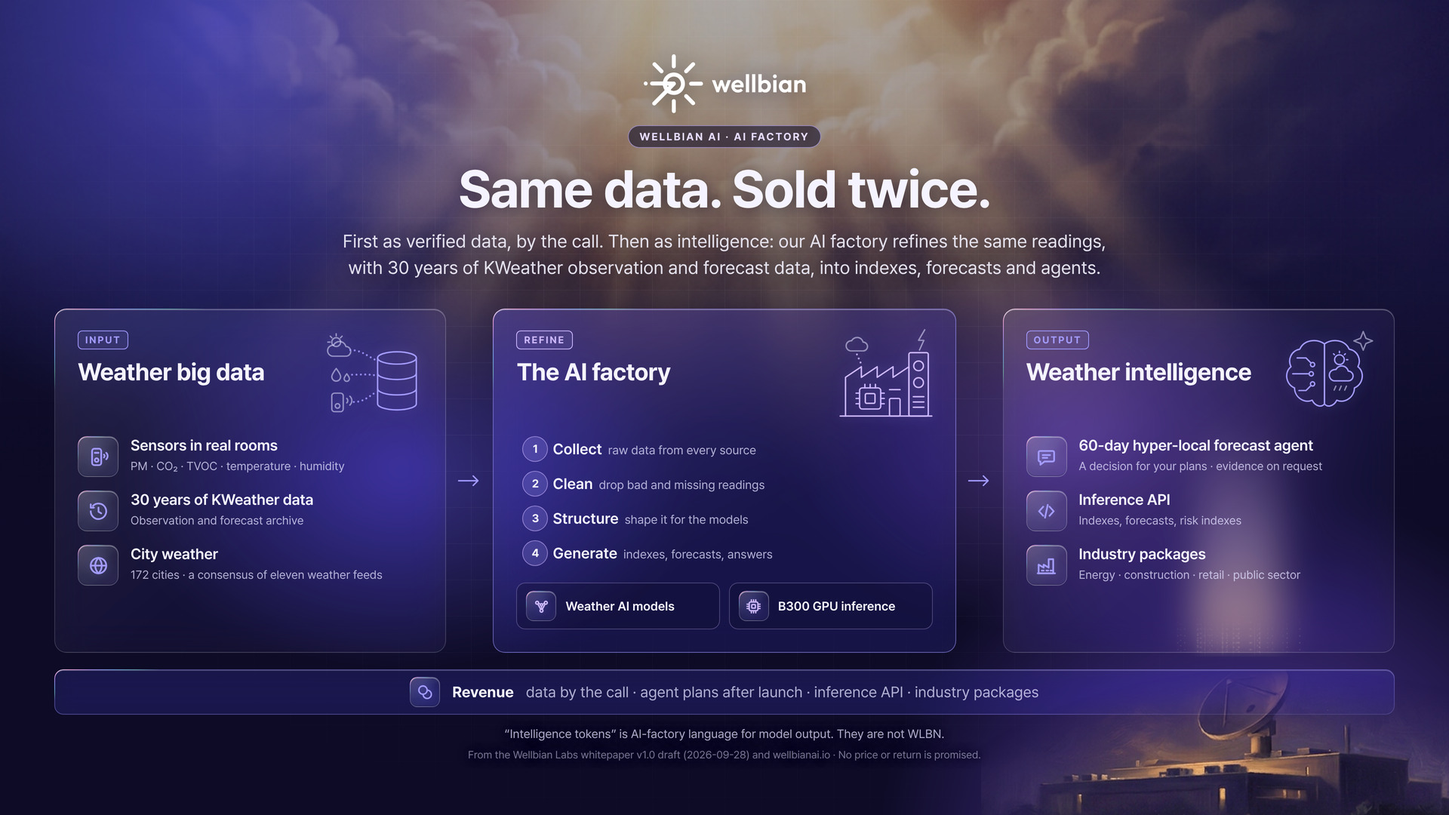
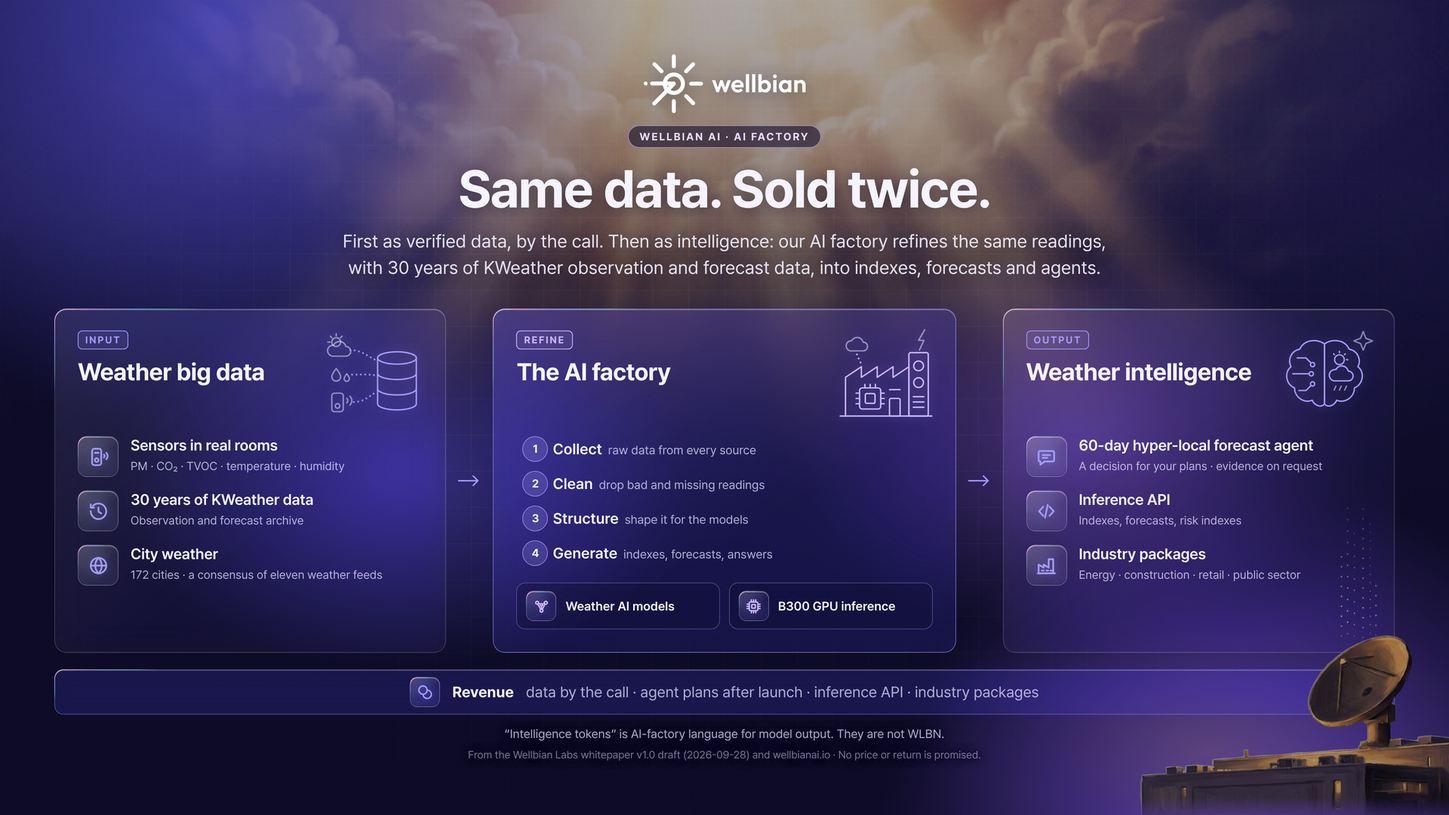
depin: use a cut-out radar building and a light drizzle of data in part 3
Claude-Session: https://claude.ai/code/session_014drgzQYBXTLjd1zzmsjRaS

Changed region(s): [[0.7188, 0.55, 1.0, 1.0]]

diff --git a/depin/content/ai-factory-1021/ai-factory-en-9x16.html b/depin/content/ai-factory-1021/ai-factory-en-9x16.html
@@ -104,10 +104,10 @@ h1{margin-top:18px;font-size:70px;font-weight:700;letter-spacing:-.025em;line-he
 .paintfade{position:absolute;inset:0;background:linear-gradient(180deg,rgba(13,11,38,0) 0%,rgba(13,11,38,.10) 24%,rgba(13,11,38,.55) 40%,rgba(13,11,38,.88) 56%,#0D0B26 74%)}
 /* 오른쪽 아래 AI 데이터센터 건물(10/22 서우 「우측 하단에 과하지 않게」) — 같은 회화풍(Higgsfield) 그림을 잘라 배경층 맨 위에. 밝은 부분만 보이게(lighten). */
 .fg{position:absolute;inset:0;z-index:2;pointer-events:none;overflow:hidden}
-.dc{position:absolute;right:-40px;bottom:-84px;width:660px;height:330px;background:url("assets/datacenter-radar.jpg") center/cover no-repeat;opacity:.96;filter:brightness(1.08) saturate(1.05);
- -webkit-mask-image:radial-gradient(ellipse 88% 96% at 60% 100%,#000 56%,transparent 88%);mask-image:radial-gradient(ellipse 88% 96% at 60% 100%,#000 56%,transparent 88%)}
+.dc{position:absolute;right:-150px;bottom:-12px;width:560px;height:251px;background:url("assets/datacenter-radar.png") center bottom/contain no-repeat;filter:brightness(.66) saturate(.92) contrast(1.06);-webkit-mask-image:linear-gradient(0deg,transparent 0%,#000 14%);mask-image:linear-gradient(0deg,transparent 0%,#000 14%)}
+.dchaze{position:absolute;right:-60px;bottom:-120px;width:760px;height:420px;border-radius:50%;background:radial-gradient(closest-side,rgba(255,196,120,.14),rgba(163,120,255,.08) 55%,rgba(163,120,255,0))}
 /* 데이터센터 지붕에서 하늘로 솟는 디지털 정보(점선 기둥) — 10/22 서우 「하늘로 디지털 정보를 쏘는 듯한 효과」(참고 이미지: 지구에서 솟는 점 기둥). 금빛 → 라벤더로 옅어진다. */
-.streams{position:absolute;right:177px;bottom:210px;width:200px;height:330px;pointer-events:none;mix-blend-mode:screen;opacity:1;filter:drop-shadow(0 0 4px rgba(255,214,150,.5))}
+.streams{position:absolute;right:84px;bottom:219px;width:70px;height:280px;pointer-events:none;mix-blend-mode:screen;opacity:.9;filter:drop-shadow(0 0 3px rgba(255,214,150,.45))}
 .streams svg{width:100%;height:100%;display:block}
 .logo,h1,.sub{text-shadow:0 2px 22px rgba(13,11,38,.55)}
 .note,.foot{text-shadow:0 0 6px #0D0B26,0 0 14px #0D0B26}
@@ -120,8 +120,9 @@ h1{margin-top:18px;font-size:70px;font-weight:700;letter-spacing:-.025em;line-he
 
 html,body{width:1080px;height:1920px}
 body{padding:30px 44px 0;justify-content:flex-start}
-.dc{width:540px;height:270px;right:-60px;bottom:-70px}
-.streams{right:110px;bottom:170px;width:180px;height:320px;-webkit-mask-image:linear-gradient(180deg,#000 0%,#000 64%,rgba(0,0,0,.3) 69%,rgba(0,0,0,.3) 90%,#000 95%);mask-image:linear-gradient(180deg,#000 0%,#000 64%,rgba(0,0,0,.3) 69%,rgba(0,0,0,.3) 90%,#000 95%)}
+.dc{width:470px;height:210px;right:-106px;bottom:-70px}
+.dchaze{width:620px;height:360px;right:-90px;bottom:-130px}
+.streams{right:90px;bottom:122px;width:60px;height:80px}
 .bgfx .g1{width:900px;height:900px;left:-300px;top:-380px}
 .bgfx .g2{width:900px;height:900px;right:-320px;bottom:-360px}
 .bgfx .g3{width:700px;height:600px;left:-160px;top:30%}
@@ -168,7 +169,7 @@ h1{margin-top:14px;font-size:76px;line-height:1.04;text-align:center;letter-spac
 .foot{margin-top:10px;max-width:960px;text-align:center;font-size:18px;line-height:1.45;text-wrap:balance}
 .note,.foot{align-self:flex-start;text-align:left;max-width:680px;margin-left:6px}
 </style></head><body>
-<div class="bgfx"><div class="paint"></div><div class="paintfade"></div><div class="g1"></div><div class="g2"></div><div class="g3"></div><div class="g4"></div><div class="grid"></div><div class="streams"><svg viewBox="0 0 180 320" preserveAspectRatio="none" aria-hidden="true"><defs><linearGradient id="up" gradientUnits="userSpaceOnUse" x1="0" y1="320" x2="0" y2="0"><stop offset="0" stop-color="#FFE1A6" stop-opacity="0"/><stop offset=".12" stop-color="#FFE1A6" stop-opacity=".9"/><stop offset=".45" stop-color="#E9D7FF" stop-opacity=".5"/><stop offset=".8" stop-color="#CDB8FF" stop-opacity=".12"/><stop offset="1" stop-color="#CDB8FF" stop-opacity="0"/></linearGradient><radialGradient id="base" cx=".5" cy="1" r=".5"><stop offset="0" stop-color="#FFD58F" stop-opacity=".55"/><stop offset="1" stop-color="#FFD58F" stop-opacity="0"/></radialGradient></defs><defs><linearGradient id="col" gradientUnits="userSpaceOnUse" x1="0" y1="320" x2="0" y2="0"><stop offset="0" stop-color="#FFD58F" stop-opacity="0"/><stop offset=".1" stop-color="#FFD58F" stop-opacity=".3"/><stop offset=".55" stop-color="#E9D7FF" stop-opacity=".16"/><stop offset="1" stop-color="#CDB8FF" stop-opacity="0"/></linearGradient><filter id="soft" x="-50%" y="-10%" width="200%" height="120%"><feGaussianBlur stdDeviation="10.8"/></filter></defs><rect x="40" y="0" width="101" height="320" fill="url(#col)" filter="url(#soft)"/><ellipse cx="94" cy="320" rx="76" ry="70" fill="url(#base)"/><line x1="85.7" y1="320" x2="85.7" y2="81" stroke="url(#up)" stroke-width="2.2" stroke-linecap="round" stroke-dasharray="0.1 9" opacity="0.70"/><line x1="39.8" y1="320" x2="39.8" y2="168" stroke="url(#up)" stroke-width="2.2" stroke-linecap="round" stroke-dasharray="0.1 6" opacity="0.80"/><line x1="24.2" y1="320" x2="24.2" y2="236" stroke="url(#up)" stroke-width="1.8" stroke-linecap="round" stroke-dasharray="0.1 9" opacity="0.75"/><line x1="102.1" y1="320" x2="102.1" y2="78" stroke="url(#up)" stroke-width="2.2" stroke-linecap="round" stroke-dasharray="0.1 9" opacity="0.98"/><line x1="128.7" y1="320" x2="128.7" y2="135" stroke="url(#up)" stroke-width="2.6" stroke-linecap="round" stroke-dasharray="0.1 9" opacity="0.46"/><line x1="19.2" y1="320" x2="19.2" y2="259" stroke="url(#up)" stroke-width="1.8" stroke-linecap="round" stroke-dasharray="0.1 7" opacity="0.78"/><line x1="74.4" y1="320" x2="74.4" y2="104" stroke="url(#up)" stroke-width="1.8" stroke-linecap="round" stroke-dasharray="0.1 9" opacity="0.74"/><line x1="56.7" y1="320" x2="56.7" y2="201" stroke="url(#up)" stroke-width="1.8" stroke-linecap="round" stroke-dasharray="0.1 7" opacity="0.70"/><line x1="74.9" y1="320" x2="74.9" y2="107" stroke="url(#up)" stroke-width="1.8" stroke-linecap="round" stroke-dasharray="0.1 7" opacity="0.84"/><line x1="113.2" y1="320" x2="113.2" y2="114" stroke="url(#up)" stroke-width="1.8" stroke-linecap="round" stroke-dasharray="0.1 6" opacity="0.49"/><line x1="73.9" y1="320" x2="73.9" y2="74" stroke="url(#up)" stroke-width="2.2" stroke-linecap="round" stroke-dasharray="0.1 6" opacity="0.49"/><line x1="146.3" y1="320" x2="146.3" y2="226" stroke="url(#up)" stroke-width="1.8" stroke-linecap="round" stroke-dasharray="0.1 6" opacity="0.96"/><line x1="87.3" y1="320" x2="87.3" y2="21" stroke="url(#up)" stroke-width="2.2" stroke-linecap="round" stroke-dasharray="0.1 9" opacity="0.68"/><line x1="111.0" y1="320" x2="111.0" y2="76" stroke="url(#up)" stroke-width="2.2" stroke-linecap="round" stroke-dasharray="0.1 7" opacity="0.64"/><line x1="62.9" y1="320" x2="62.9" y2="91" stroke="url(#up)" stroke-width="1.8" stroke-linecap="round" stroke-dasharray="0.1 9" opacity="0.52"/><line x1="54.1" y1="320" x2="54.1" y2="200" stroke="url(#up)" stroke-width="2.2" stroke-linecap="round" stroke-dasharray="0.1 9" opacity="0.55"/><line x1="39.5" y1="320" x2="39.5" y2="191" stroke="url(#up)" stroke-width="2.6" stroke-linecap="round" stroke-dasharray="0.1 7" opacity="0.87"/><line x1="113.3" y1="320" x2="113.3" y2="161" stroke="url(#up)" stroke-width="2.2" stroke-linecap="round" stroke-dasharray="0.1 6" opacity="0.99"/><line x1="69.3" y1="320" x2="69.3" y2="72" stroke="url(#up)" stroke-width="2.6" stroke-linecap="round" stroke-dasharray="0.1 6" opacity="0.62"/><line x1="43.1" y1="320" x2="43.1" y2="192" stroke="url(#up)" stroke-width="2.6" stroke-linecap="round" stroke-dasharray="0.1 6" opacity="0.80"/><line x1="15.8" y1="320" x2="15.8" y2="259" stroke="url(#up)" stroke-width="2.2" stroke-linecap="round" stroke-dasharray="0.1 9" opacity="0.59"/><line x1="74.6" y1="320" x2="74.6" y2="138" stroke="url(#up)" stroke-width="1.8" stroke-linecap="round" stroke-dasharray="0.1 6" opacity="0.49"/><line x1="103.4" y1="320" x2="103.4" y2="127" stroke="url(#up)" stroke-width="2.6" stroke-linecap="round" stroke-dasharray="0.1 9" opacity="0.65"/><line x1="82.4" y1="320" x2="82.4" y2="37" stroke="url(#up)" stroke-width="2.2" stroke-linecap="round" stroke-dasharray="0.1 6" opacity="0.91"/><line x1="123.0" y1="320" x2="123.0" y2="171" stroke="url(#up)" stroke-width="1.8" stroke-linecap="round" stroke-dasharray="0.1 6" opacity="0.62"/><line x1="141.5" y1="320" x2="141.5" y2="198" stroke="url(#up)" stroke-width="1.8" stroke-linecap="round" stroke-dasharray="0.1 9" opacity="0.54"/><line x1="161.3" y1="320" x2="161.3" y2="239" stroke="url(#up)" stroke-width="2.2" stroke-linecap="round" stroke-dasharray="0.1 9" opacity="0.94"/><line x1="52.1" y1="320" x2="52.1" y2="205" stroke="url(#up)" stroke-width="1.8" stroke-linecap="round" stroke-dasharray="0.1 7" opacity="0.47"/><line x1="50.0" y1="320" x2="50.0" y2="84" stroke="url(#up)" stroke-width="1" opacity="0.34"/><line x1="139.5" y1="320" x2="139.5" y2="103" stroke="url(#up)" stroke-width="1" opacity="0.35"/><line x1="40.3" y1="320" x2="40.3" y2="81" stroke="url(#up)" stroke-width="1" opacity="0.27"/><line x1="48.4" y1="320" x2="48.4" y2="110" stroke="url(#up)" stroke-width="1" opacity="0.55"/><line x1="107.5" y1="320" x2="107.5" y2="159" stroke="url(#up)" stroke-width="1" opacity="0.57"/><line x1="44.7" y1="320" x2="44.7" y2="205" stroke="url(#up)" stroke-width="1" opacity="0.34"/></svg></div></div>
+<div class="bgfx"><div class="paint"></div><div class="paintfade"></div><div class="g1"></div><div class="g2"></div><div class="g3"></div><div class="g4"></div><div class="grid"></div><div class="dchaze"></div></div>
 <div class="wrap">
 <div class="logo"><svg width="165" height="60" xmlns="http://www.w3.org/2000/svg" viewBox="0 0 416 151" fill="none" aria-label="wellbian"><g clip-path="url(#wellbian-logo-clip)"><path fill-rule="evenodd" clip-rule="evenodd" fill="#ffffff" d="M323.43 91.39C318.81 98.61 309.1 100.27 302.55 94.93L302.35 97.34L293.95 97.31V50.89L302.39 50.86L302.43 68.68C309.49 63.1 319.73 65.28 324.02 73.24C327.04 78.84 326.98 85.82 323.42 91.39H323.43ZM317.49 81.66C317.45 76.62 313.86 73.3 309.3 73.49C304.89 73.67 301.86 77.27 301.89 81.88C301.92 86.61 305.16 90.16 309.72 90.18C314.2 90.19 317.53 86.63 317.49 81.67V81.66ZM214.88 66.22H223.48L211.97 97.26L205.76 97.36L199.16 79.47L192.59 97.33L186.44 97.26L174.87 66.23L183.45 66.2L189.73 84.68L196.12 66.22L202.22 66.17L208.66 84.67L214.88 66.23V66.22ZM378.53 97.31L370.12 97.33L369.96 94.74C366.45 97.85 362.06 98.74 357.28 97.51C348.11 95.16 344.12 84.22 347.5 75.2C350.07 68.34 356.83 64.51 363.99 65.84C366.33 66.28 368.25 67.38 370.01 68.9L370.1 66.19H378.53V97.3V97.31ZM370.58 81.66C370.51 76.61 366.94 73.29 362.35 73.49C357.76 73.69 354.94 77.25 354.98 81.87C355.02 86.58 358.24 90.19 362.76 90.17C367.28 90.15 370.65 86.65 370.58 81.66ZM240.35 90.79C243.85 91.12 246.74 90.03 249.11 87.65L254.11 92.67C250.44 96.88 245.21 98.34 239.87 97.97C231.83 97.42 225.52 91.57 224.71 83.58C223.68 73.5 231.35 65.21 241.45 65.53C245.96 65.67 249.95 67.39 252.81 70.93C255.93 74.79 256.93 79.96 255.75 84.77H233.22C234.02 87.97 236.61 90.41 240.35 90.77V90.79ZM247.97 78.41C247.21 74.48 244.42 72.61 241 72.68C237.3 72.6 234.04 74.85 233.34 78.44L247.96 78.41H247.97ZM394.4 78.79L394.29 97.32H385.85V66.21L394.27 66.19L394.39 68.92C397.95 65.85 402.64 64.61 407.39 66.37C411.09 67.74 415.04 71.77 415.06 76.51L415.14 97.32H406.62L406.5 78.54C406.48 75.2 403.19 73.33 400.37 73.36C397.55 73.39 394.41 75.28 394.39 78.79H394.4ZM270.25 97.27L261.8 97.32V50.88L270.25 50.87V97.27ZM286.12 97.27L277.67 97.32V50.88L286.12 50.87V97.27ZM340.52 97.31H331.97V66.21L340.52 66.18V97.31ZM335.77 51.61C338.77 51.33 340.79 53.44 341.02 55.95C341.27 58.75 339.43 61.1 336.79 61.33C334.15 61.56 331.85 59.89 331.47 57.22C331.09 54.59 332.72 51.89 335.77 51.61ZM151.91 75.05C152.05 77.51 150.18 80.42 147.12 80.42H121.23C118.37 80.43 116.35 77.81 116.35 75.4C116.35 72.52 118.49 70.19 121.55 70.19L147.02 70.21C149.83 70.21 151.77 72.57 151.91 75.04M78.11 150.79H75.98C75.74 150.79 75.49 150.74 75.27 150.63C73.01 149.53 71.94 147.62 71.95 144.93L71.99 119.92C71.99 116.96 74.43 114.93 77.08 114.94C79.73 114.95 82.11 117.04 82.12 119.98L82.16 144.92C82.16 147.6 81.13 149.52 78.84 150.63C78.62 150.74 78.37 150.79 78.13 150.79H78.11ZM130.2 121.65C132.32 123.79 132.2 127.11 130.14 129.06C128.03 131.06 124.91 130.82 122.76 128.65L105.14 110.83C103.09 108.76 103.12 105.66 105.05 103.63C106.98 101.6 110.19 101.52 112.31 103.65L130.2 121.64V121.65ZM-9.76585e-06 75.58V73.86C-9.76585e-06 73.63 0.0399902 73.4 0.12999 73.19C1.12999 70.97 3.18999 69.5 5.60999 69.83C8.02999 70.16 10.03 72.42 9.91999 74.95C9.80999 77.48 7.83999 79.61 5.23999 79.76C2.94999 79.89 1.06999 78.44 0.11999 76.22C0.0299902 76.02 -0.0100098 75.79 -0.0100098 75.58H-9.76585e-06ZM52.97 90.7C51.07 87.56 49.87 84.48 49.15 81.06C48.99 80.31 48.35 79.76 47.58 79.76H21.31C18.42 79.76 16.29 77.56 16.19 74.97C16.08 72.18 18.28 69.8 21.31 69.8H47.88C48.62 69.79 49.25 69.27 49.43 68.55C53.4 52.66 69.57 43.24 85.29 47.94C94.48 50.69 101.45 58.07 104.12 66.39C107.39 76.58 105.06 86.87 98.34 94.5C89.03 105.08 73.73 107.18 61.91 99.72C61.27 99.31 60.43 99.39 59.9 99.93L30.57 129.52C28.52 131.59 25.62 131.7 23.52 129.94C21.62 128.35 20.8 124.85 22.93 122.7L52.74 92.68C53.26 92.15 53.34 91.34 52.96 90.71L52.97 90.7ZM80.79 78.93L69.87 89.9C69.07 90.71 69.33 92.1 70.39 92.52C76.53 94.96 83.35 93.88 88.39 89.84C94.03 85.32 96.63 77.87 94.7 70.68C92.54 62.67 85.48 57.21 77.46 57.05C70.29 56.91 63.71 61.01 60.61 67.52C60.12 68.56 60.92 69.76 62.07 69.76L77.66 69.82C79.76 69.82 81.46 71.82 81.95 73.25C82.63 75.22 82.33 77.36 80.78 78.93H80.79ZM61.66 79.79C60.53 79.77 59.73 80.9 60.14 81.96C60.56 83.04 61.96 83.33 62.77 82.51C63.75 81.51 63.06 79.82 61.66 79.79ZM78.15 0C78.4 0 78.65 0.05 78.87 0.16C81.11 1.27 82.14 3.2 82.14 5.87L82.1 30.81C82.1 33.75 79.72 35.84 77.06 35.85C74.4 35.86 71.98 33.83 71.97 30.87L71.93 5.86C71.93 3.16 73 1.25 75.37 0.15C75.58 0.05 75.83 0 76.06 0H78.14L78.15 0ZM112.39 46.97C110.21 49.17 107.12 49.03 105.11 47.13C103.36 45.48 102.84 42.1 104.86 40.07L122.89 21.84C124.89 19.82 127.79 19.77 129.78 21.35C131.84 22.97 132.6 26.53 130.51 28.64L112.38 46.97H112.39ZM49.43 40.36C51.26 42.21 50.67 45.34 49.2 46.95C47.55 48.76 44.23 49.43 42.3 47.5L23.59 28.67C21.68 26.75 22.19 23.58 23.76 21.9C25.45 20.09 28.75 19.48 30.74 21.5L49.42 40.37L49.43 40.36Z"></path></g><defs><clipPath id="wellbian-logo-clip"><rect width="415.14" height="150.79" fill="white"></rect></clipPath></defs></svg></div>
 <div class="kicker">Wellbian AI · AI factory</div>
@@ -184,4 +185,4 @@ h1{margin-top:14px;font-size:76px;line-height:1.04;text-align:center;letter-spac
 <p class="note">“Intelligence tokens” is AI-factory language for model output. They are not WLBN.</p>
 <p class="foot"><span class="nw">From the Wellbian Labs whitepaper v1.0 draft (2026-09-28) and wellbianai.io ·</span> <span class="nw">No price or return is promised.</span></p>
 </div>
-<div class="fg"><div class="dc"></div></div></body></html>
+<div class="fg"><div class="streams"><svg viewBox="0 0 60 80" preserveAspectRatio="none" aria-hidden="true"><defs><linearGradient id="up" gradientUnits="userSpaceOnUse" x1="0" y1="80" x2="0" y2="0"><stop offset="0" stop-color="#FFE1A6" stop-opacity="0"/><stop offset=".15" stop-color="#FFE1A6" stop-opacity=".85"/><stop offset=".5" stop-color="#E9D7FF" stop-opacity=".45"/><stop offset="1" stop-color="#CDB8FF" stop-opacity="0"/></linearGradient></defs><line x1="10.6" y1="80" x2="10.6" y2="40" stroke="url(#up)" stroke-width="2.0" stroke-linecap="round" stroke-dasharray="0.1 13" stroke-dashoffset="8" opacity="0.75"/><line x1="19.3" y1="80" x2="19.3" y2="23" stroke="url(#up)" stroke-width="2.0" stroke-linecap="round" stroke-dasharray="0.1 15" stroke-dashoffset="9" opacity="0.73"/><line x1="28.5" y1="80" x2="28.5" y2="32" stroke="url(#up)" stroke-width="1.6" stroke-linecap="round" stroke-dasharray="0.1 15" stroke-dashoffset="12" opacity="0.76"/><line x1="40.1" y1="80" x2="40.1" y2="30" stroke="url(#up)" stroke-width="2.0" stroke-linecap="round" stroke-dasharray="0.1 13" stroke-dashoffset="10" opacity="0.71"/><line x1="49.7" y1="80" x2="49.7" y2="39" stroke="url(#up)" stroke-width="1.6" stroke-linecap="round" stroke-dasharray="0.1 11" stroke-dashoffset="0" opacity="0.52"/></svg></div><div class="dc"></div></div></body></html>

diff --git a/depin/content/ai-factory-1021/ai-factory-en.html b/depin/content/ai-factory-1021/ai-factory-en.html
@@ -104,10 +104,10 @@ h1{margin-top:18px;font-size:70px;font-weight:700;letter-spacing:-.025em;line-he
 .paintfade{position:absolute;inset:0;background:linear-gradient(180deg,rgba(13,11,38,0) 0%,rgba(13,11,38,.10) 24%,rgba(13,11,38,.55) 40%,rgba(13,11,38,.88) 56%,#0D0B26 74%)}
 /* 오른쪽 아래 AI 데이터센터 건물(10/22 서우 「우측 하단에 과하지 않게」) — 같은 회화풍(Higgsfield) 그림을 잘라 배경층 맨 위에. 밝은 부분만 보이게(lighten). */
 .fg{position:absolute;inset:0;z-index:2;pointer-events:none;overflow:hidden}
-.dc{position:absolute;right:-40px;bottom:-84px;width:660px;height:330px;background:url("assets/datacenter-radar.jpg") center/cover no-repeat;opacity:.96;filter:brightness(1.08) saturate(1.05);
- -webkit-mask-image:radial-gradient(ellipse 88% 96% at 60% 100%,#000 56%,transparent 88%);mask-image:radial-gradient(ellipse 88% 96% at 60% 100%,#000 56%,transparent 88%)}
+.dc{position:absolute;right:-150px;bottom:-12px;width:560px;height:251px;background:url("assets/datacenter-radar.png") center bottom/contain no-repeat;filter:brightness(.66) saturate(.92) contrast(1.06);-webkit-mask-image:linear-gradient(0deg,transparent 0%,#000 14%);mask-image:linear-gradient(0deg,transparent 0%,#000 14%)}
+.dchaze{position:absolute;right:-60px;bottom:-120px;width:760px;height:420px;border-radius:50%;background:radial-gradient(closest-side,rgba(255,196,120,.14),rgba(163,120,255,.08) 55%,rgba(163,120,255,0))}
 /* 데이터센터 지붕에서 하늘로 솟는 디지털 정보(점선 기둥) — 10/22 서우 「하늘로 디지털 정보를 쏘는 듯한 효과」(참고 이미지: 지구에서 솟는 점 기둥). 금빛 → 라벤더로 옅어진다. */
-.streams{position:absolute;right:177px;bottom:210px;width:200px;height:330px;pointer-events:none;mix-blend-mode:screen;opacity:1;filter:drop-shadow(0 0 4px rgba(255,214,150,.5))}
+.streams{position:absolute;right:84px;bottom:219px;width:70px;height:280px;pointer-events:none;mix-blend-mode:screen;opacity:.9;filter:drop-shadow(0 0 3px rgba(255,214,150,.45))}
 .streams svg{width:100%;height:100%;display:block}
 .logo,h1,.sub{text-shadow:0 2px 22px rgba(13,11,38,.55)}
 .note,.foot{text-shadow:0 0 6px #0D0B26,0 0 14px #0D0B26}
@@ -118,7 +118,7 @@ h1{margin-top:18px;font-size:70px;font-weight:700;letter-spacing:-.025em;line-he
 .note b{color:var(--t1);font-weight:600}
 .foot{margin-top:10px}
 </style></head><body>
-<div class="bgfx"><div class="paint"></div><div class="paintfade"></div><div class="g1"></div><div class="g2"></div><div class="g3"></div><div class="g4"></div><div class="grid"></div><div class="streams"><svg viewBox="0 0 200 330" preserveAspectRatio="none" aria-hidden="true"><defs><linearGradient id="up" gradientUnits="userSpaceOnUse" x1="0" y1="330" x2="0" y2="0"><stop offset="0" stop-color="#FFE1A6" stop-opacity="0"/><stop offset=".12" stop-color="#FFE1A6" stop-opacity=".9"/><stop offset=".45" stop-color="#E9D7FF" stop-opacity=".5"/><stop offset=".8" stop-color="#CDB8FF" stop-opacity=".12"/><stop offset="1" stop-color="#CDB8FF" stop-opacity="0"/></linearGradient><radialGradient id="base" cx=".5" cy="1" r=".5"><stop offset="0" stop-color="#FFD58F" stop-opacity=".55"/><stop offset="1" stop-color="#FFD58F" stop-opacity="0"/></radialGradient></defs><defs><linearGradient id="col" gradientUnits="userSpaceOnUse" x1="0" y1="330" x2="0" y2="0"><stop offset="0" stop-color="#FFD58F" stop-opacity="0"/><stop offset=".1" stop-color="#FFD58F" stop-opacity=".3"/><stop offset=".55" stop-color="#E9D7FF" stop-opacity=".16"/><stop offset="1" stop-color="#CDB8FF" stop-opacity="0"/></linearGradient><filter id="soft" x="-50%" y="-10%" width="200%" height="120%"><feGaussianBlur stdDeviation="12.0"/></filter></defs><rect x="44" y="0" width="112" height="330" fill="url(#col)" filter="url(#soft)"/><ellipse cx="104" cy="330" rx="84" ry="70" fill="url(#base)"/><line x1="95.2" y1="330" x2="95.2" y2="84" stroke="url(#up)" stroke-width="2.2" stroke-linecap="round" stroke-dasharray="0.1 9" opacity="0.70"/><line x1="44.2" y1="330" x2="44.2" y2="173" stroke="url(#up)" stroke-width="2.2" stroke-linecap="round" stroke-dasharray="0.1 6" opacity="0.80"/><line x1="26.9" y1="330" x2="26.9" y2="243" stroke="url(#up)" stroke-width="1.8" stroke-linecap="round" stroke-dasharray="0.1 9" opacity="0.75"/><line x1="113.4" y1="330" x2="113.4" y2="80" stroke="url(#up)" stroke-width="2.2" stroke-linecap="round" stroke-dasharray="0.1 9" opacity="0.98"/><line x1="143.0" y1="330" x2="143.0" y2="139" stroke="url(#up)" stroke-width="2.6" stroke-linecap="round" stroke-dasharray="0.1 9" opacity="0.46"/><line x1="21.4" y1="330" x2="21.4" y2="267" stroke="url(#up)" stroke-width="1.8" stroke-linecap="round" stroke-dasharray="0.1 7" opacity="0.78"/><line x1="82.6" y1="330" x2="82.6" y2="107" stroke="url(#up)" stroke-width="1.8" stroke-linecap="round" stroke-dasharray="0.1 9" opacity="0.74"/><line x1="62.9" y1="330" x2="62.9" y2="208" stroke="url(#up)" stroke-width="1.8" stroke-linecap="round" stroke-dasharray="0.1 7" opacity="0.70"/><line x1="83.2" y1="330" x2="83.2" y2="110" stroke="url(#up)" stroke-width="1.8" stroke-linecap="round" stroke-dasharray="0.1 7" opacity="0.84"/><line x1="125.8" y1="330" x2="125.8" y2="117" stroke="url(#up)" stroke-width="1.8" stroke-linecap="round" stroke-dasharray="0.1 6" opacity="0.49"/><line x1="82.1" y1="330" x2="82.1" y2="77" stroke="url(#up)" stroke-width="2.2" stroke-linecap="round" stroke-dasharray="0.1 6" opacity="0.49"/><line x1="162.5" y1="330" x2="162.5" y2="233" stroke="url(#up)" stroke-width="1.8" stroke-linecap="round" stroke-dasharray="0.1 6" opacity="0.96"/><line x1="97.0" y1="330" x2="97.0" y2="21" stroke="url(#up)" stroke-width="2.2" stroke-linecap="round" stroke-dasharray="0.1 9" opacity="0.68"/><line x1="123.3" y1="330" x2="123.3" y2="79" stroke="url(#up)" stroke-width="2.2" stroke-linecap="round" stroke-dasharray="0.1 7" opacity="0.64"/><line x1="69.9" y1="330" x2="69.9" y2="94" stroke="url(#up)" stroke-width="1.8" stroke-linecap="round" stroke-dasharray="0.1 9" opacity="0.52"/><line x1="60.1" y1="330" x2="60.1" y2="206" stroke="url(#up)" stroke-width="2.2" stroke-linecap="round" stroke-dasharray="0.1 9" opacity="0.55"/><line x1="43.9" y1="330" x2="43.9" y2="197" stroke="url(#up)" stroke-width="2.6" stroke-linecap="round" stroke-dasharray="0.1 7" opacity="0.87"/><line x1="125.9" y1="330" x2="125.9" y2="166" stroke="url(#up)" stroke-width="2.2" stroke-linecap="round" stroke-dasharray="0.1 6" opacity="0.99"/><line x1="77.0" y1="330" x2="77.0" y2="75" stroke="url(#up)" stroke-width="2.6" stroke-linecap="round" stroke-dasharray="0.1 6" opacity="0.62"/><line x1="47.9" y1="330" x2="47.9" y2="198" stroke="url(#up)" stroke-width="2.6" stroke-linecap="round" stroke-dasharray="0.1 6" opacity="0.80"/><line x1="17.6" y1="330" x2="17.6" y2="267" stroke="url(#up)" stroke-width="2.2" stroke-linecap="round" stroke-dasharray="0.1 9" opacity="0.59"/><line x1="82.9" y1="330" x2="82.9" y2="143" stroke="url(#up)" stroke-width="1.8" stroke-linecap="round" stroke-dasharray="0.1 6" opacity="0.49"/><line x1="114.9" y1="330" x2="114.9" y2="131" stroke="url(#up)" stroke-width="2.6" stroke-linecap="round" stroke-dasharray="0.1 9" opacity="0.65"/><line x1="91.6" y1="330" x2="91.6" y2="38" stroke="url(#up)" stroke-width="2.2" stroke-linecap="round" stroke-dasharray="0.1 6" opacity="0.91"/><line x1="136.7" y1="330" x2="136.7" y2="176" stroke="url(#up)" stroke-width="1.8" stroke-linecap="round" stroke-dasharray="0.1 6" opacity="0.62"/><line x1="157.2" y1="330" x2="157.2" y2="204" stroke="url(#up)" stroke-width="1.8" stroke-linecap="round" stroke-dasharray="0.1 9" opacity="0.54"/><line x1="179.3" y1="330" x2="179.3" y2="246" stroke="url(#up)" stroke-width="2.2" stroke-linecap="round" stroke-dasharray="0.1 9" opacity="0.94"/><line x1="57.8" y1="330" x2="57.8" y2="211" stroke="url(#up)" stroke-width="1.8" stroke-linecap="round" stroke-dasharray="0.1 7" opacity="0.47"/><line x1="52.9" y1="330" x2="52.9" y2="161" stroke="url(#up)" stroke-width="2.2" stroke-linecap="round" stroke-dasharray="0.1 9" opacity="0.68"/><line x1="98.4" y1="330" x2="98.4" y2="83" stroke="url(#up)" stroke-width="2.6" stroke-linecap="round" stroke-dasharray="0.1 6" opacity="0.99"/><line x1="53.8" y1="330" x2="53.8" y2="113" stroke="url(#up)" stroke-width="1" opacity="0.55"/><line x1="119.4" y1="330" x2="119.4" y2="164" stroke="url(#up)" stroke-width="1" opacity="0.57"/><line x1="49.7" y1="330" x2="49.7" y2="211" stroke="url(#up)" stroke-width="1" opacity="0.34"/><line x1="90.8" y1="330" x2="90.8" y2="204" stroke="url(#up)" stroke-width="1" opacity="0.31"/><line x1="77.7" y1="330" x2="77.7" y2="111" stroke="url(#up)" stroke-width="1" opacity="0.30"/><line x1="76.6" y1="330" x2="76.6" y2="53" stroke="url(#up)" stroke-width="1" opacity="0.59"/><line x1="126.7" y1="330" x2="126.7" y2="89" stroke="url(#up)" stroke-width="1" opacity="0.45"/></svg></div></div>
+<div class="bgfx"><div class="paint"></div><div class="paintfade"></div><div class="g1"></div><div class="g2"></div><div class="g3"></div><div class="g4"></div><div class="grid"></div><div class="dchaze"></div></div>
 <div class="wrap">
 <div class="logo"><svg width="165" height="60" xmlns="http://www.w3.org/2000/svg" viewBox="0 0 416 151" fill="none" aria-label="wellbian"><g clip-path="url(#wellbian-logo-clip)"><path fill-rule="evenodd" clip-rule="evenodd" fill="#ffffff" d="M323.43 91.39C318.81 98.61 309.1 100.27 302.55 94.93L302.35 97.34L293.95 97.31V50.89L302.39 50.86L302.43 68.68C309.49 63.1 319.73 65.28 324.02 73.24C327.04 78.84 326.98 85.82 323.42 91.39H323.43ZM317.49 81.66C317.45 76.62 313.86 73.3 309.3 73.49C304.89 73.67 301.86 77.27 301.89 81.88C301.92 86.61 305.16 90.16 309.72 90.18C314.2 90.19 317.53 86.63 317.49 81.67V81.66ZM214.88 66.22H223.48L211.97 97.26L205.76 97.36L199.16 79.47L192.59 97.33L186.44 97.26L174.87 66.23L183.45 66.2L189.73 84.68L196.12 66.22L202.22 66.17L208.66 84.67L214.88 66.23V66.22ZM378.53 97.31L370.12 97.33L369.96 94.74C366.45 97.85 362.06 98.74 357.28 97.51C348.11 95.16 344.12 84.22 347.5 75.2C350.07 68.34 356.83 64.51 363.99 65.84C366.33 66.28 368.25 67.38 370.01 68.9L370.1 66.19H378.53V97.3V97.31ZM370.58 81.66C370.51 76.61 366.94 73.29 362.35 73.49C357.76 73.69 354.94 77.25 354.98 81.87C355.02 86.58 358.24 90.19 362.76 90.17C367.28 90.15 370.65 86.65 370.58 81.66ZM240.35 90.79C243.85 91.12 246.74 90.03 249.11 87.65L254.11 92.67C250.44 96.88 245.21 98.34 239.87 97.97C231.83 97.42 225.52 91.57 224.71 83.58C223.68 73.5 231.35 65.21 241.45 65.53C245.96 65.67 249.95 67.39 252.81 70.93C255.93 74.79 256.93 79.96 255.75 84.77H233.22C234.02 87.97 236.61 90.41 240.35 90.77V90.79ZM247.97 78.41C247.21 74.48 244.42 72.61 241 72.68C237.3 72.6 234.04 74.85 233.34 78.44L247.96 78.41H247.97ZM394.4 78.79L394.29 97.32H385.85V66.21L394.27 66.19L394.39 68.92C397.95 65.85 402.64 64.61 407.39 66.37C411.09 67.74 415.04 71.77 415.06 76.51L415.14 97.32H406.62L406.5 78.54C406.48 75.2 403.19 73.33 400.37 73.36C397.55 73.39 394.41 75.28 394.39 78.79H394.4ZM270.25 97.27L261.8 97.32V50.88L270.25 50.87V97.27ZM286.12 97.27L277.67 97.32V50.88L286.12 50.87V97.27ZM340.52 97.31H331.97V66.21L340.52 66.18V97.31ZM335.77 51.61C338.77 51.33 340.79 53.44 341.02 55.95C341.27 58.75 339.43 61.1 336.79 61.33C334.15 61.56 331.85 59.89 331.47 57.22C331.09 54.59 332.72 51.89 335.77 51.61ZM151.91 75.05C152.05 77.51 150.18 80.42 147.12 80.42H121.23C118.37 80.43 116.35 77.81 116.35 75.4C116.35 72.52 118.49 70.19 121.55 70.19L147.02 70.21C149.83 70.21 151.77 72.57 151.91 75.04M78.11 150.79H75.98C75.74 150.79 75.49 150.74 75.27 150.63C73.01 149.53 71.94 147.62 71.95 144.93L71.99 119.92C71.99 116.96 74.43 114.93 77.08 114.94C79.73 114.95 82.11 117.04 82.12 119.98L82.16 144.92C82.16 147.6 81.13 149.52 78.84 150.63C78.62 150.74 78.37 150.79 78.13 150.79H78.11ZM130.2 121.65C132.32 123.79 132.2 127.11 130.14 129.06C128.03 131.06 124.91 130.82 122.76 128.65L105.14 110.83C103.09 108.76 103.12 105.66 105.05 103.63C106.98 101.6 110.19 101.52 112.31 103.65L130.2 121.64V121.65ZM-9.76585e-06 75.58V73.86C-9.76585e-06 73.63 0.0399902 73.4 0.12999 73.19C1.12999 70.97 3.18999 69.5 5.60999 69.83C8.02999 70.16 10.03 72.42 9.91999 74.95C9.80999 77.48 7.83999 79.61 5.23999 79.76C2.94999 79.89 1.06999 78.44 0.11999 76.22C0.0299902 76.02 -0.0100098 75.79 -0.0100098 75.58H-9.76585e-06ZM52.97 90.7C51.07 87.56 49.87 84.48 49.15 81.06C48.99 80.31 48.35 79.76 47.58 79.76H21.31C18.42 79.76 16.29 77.56 16.19 74.97C16.08 72.18 18.28 69.8 21.31 69.8H47.88C48.62 69.79 49.25 69.27 49.43 68.55C53.4 52.66 69.57 43.24 85.29 47.94C94.48 50.69 101.45 58.07 104.12 66.39C107.39 76.58 105.06 86.87 98.34 94.5C89.03 105.08 73.73 107.18 61.91 99.72C61.27 99.31 60.43 99.39 59.9 99.93L30.57 129.52C28.52 131.59 25.62 131.7 23.52 129.94C21.62 128.35 20.8 124.85 22.93 122.7L52.74 92.68C53.26 92.15 53.34 91.34 52.96 90.71L52.97 90.7ZM80.79 78.93L69.87 89.9C69.07 90.71 69.33 92.1 70.39 92.52C76.53 94.96 83.35 93.88 88.39 89.84C94.03 85.32 96.63 77.87 94.7 70.68C92.54 62.67 85.48 57.21 77.46 57.05C70.29 56.91 63.71 61.01 60.61 67.52C60.12 68.56 60.92 69.76 62.07 69.76L77.66 69.82C79.76 69.82 81.46 71.82 81.95 73.25C82.63 75.22 82.33 77.36 80.78 78.93H80.79ZM61.66 79.79C60.53 79.77 59.73 80.9 60.14 81.96C60.56 83.04 61.96 83.33 62.77 82.51C63.75 81.51 63.06 79.82 61.66 79.79ZM78.15 0C78.4 0 78.65 0.05 78.87 0.16C81.11 1.27 82.14 3.2 82.14 5.87L82.1 30.81C82.1 33.75 79.72 35.84 77.06 35.85C74.4 35.86 71.98 33.83 71.97 30.87L71.93 5.86C71.93 3.16 73 1.25 75.37 0.15C75.58 0.05 75.83 0 76.06 0H78.14L78.15 0ZM112.39 46.97C110.21 49.17 107.12 49.03 105.11 47.13C103.36 45.48 102.84 42.1 104.86 40.07L122.89 21.84C124.89 19.82 127.79 19.77 129.78 21.35C131.84 22.97 132.6 26.53 130.51 28.64L112.38 46.97H112.39ZM49.43 40.36C51.26 42.21 50.67 45.34 49.2 46.95C47.55 48.76 44.23 49.43 42.3 47.5L23.59 28.67C21.68 26.75 22.19 23.58 23.76 21.9C25.45 20.09 28.75 19.48 30.74 21.5L49.42 40.37L49.43 40.36Z"></path></g><defs><clipPath id="wellbian-logo-clip"><rect width="415.14" height="150.79" fill="white"></rect></clipPath></defs></svg></div>
 <div class="kicker">Wellbian AI · AI factory</div>
@@ -134,4 +134,4 @@ h1{margin-top:18px;font-size:70px;font-weight:700;letter-spacing:-.025em;line-he
 <p class="note">“Intelligence tokens” is AI-factory language for model output. They are not WLBN.</p>
 <p class="foot"><span class="nw">From the Wellbian Labs whitepaper v1.0 draft (2026-09-28) and wellbianai.io ·</span> <span class="nw">No price or return is promised.</span></p>
 </div>
-<div class="fg"><div class="dc"></div></div></body></html>
+<div class="fg"><div class="streams"><svg viewBox="0 0 70 280" preserveAspectRatio="none" aria-hidden="true"><defs><linearGradient id="up" gradientUnits="userSpaceOnUse" x1="0" y1="280" x2="0" y2="0"><stop offset="0" stop-color="#FFE1A6" stop-opacity="0"/><stop offset=".15" stop-color="#FFE1A6" stop-opacity=".85"/><stop offset=".5" stop-color="#E9D7FF" stop-opacity=".45"/><stop offset="1" stop-color="#CDB8FF" stop-opacity="0"/></linearGradient></defs><line x1="11.5" y1="280" x2="11.5" y2="144" stroke="url(#up)" stroke-width="2.0" stroke-linecap="round" stroke-dasharray="0.1 13" stroke-dashoffset="8" opacity="0.75"/><line x1="19.7" y1="280" x2="19.7" y2="89" stroke="url(#up)" stroke-width="2.0" stroke-linecap="round" stroke-dasharray="0.1 15" stroke-dashoffset="9" opacity="0.73"/><line x1="28.6" y1="280" x2="28.6" y2="123" stroke="url(#up)" stroke-width="1.6" stroke-linecap="round" stroke-dasharray="0.1 15" stroke-dashoffset="12" opacity="0.76"/><line x1="40.2" y1="280" x2="40.2" y2="85" stroke="url(#up)" stroke-width="2.0" stroke-linecap="round" stroke-dasharray="0.1 13" stroke-dashoffset="10" opacity="0.71"/><line x1="49.6" y1="280" x2="49.6" y2="109" stroke="url(#up)" stroke-width="1.6" stroke-linecap="round" stroke-dasharray="0.1 11" stroke-dashoffset="0" opacity="0.52"/><line x1="57.2" y1="280" x2="57.2" y2="193" stroke="url(#up)" stroke-width="2.0" stroke-linecap="round" stroke-dasharray="0.1 13" stroke-dashoffset="7" opacity="0.66"/></svg></div><div class="dc"></div></div></body></html>

diff --git a/depin/content/ai-factory-1021/build.py b/depin/content/ai-factory-1021/build.py
@@ -88,10 +88,10 @@ XCSS = """
 .paintfade{position:absolute;inset:0;background:linear-gradient(180deg,rgba(13,11,38,0) 0%,rgba(13,11,38,.10) 24%,rgba(13,11,38,.55) 40%,rgba(13,11,38,.88) 56%,#0D0B26 74%)}
 /* 오른쪽 아래 AI 데이터센터 건물(10/22 서우 「우측 하단에 과하지 않게」) — 같은 회화풍(Higgsfield) 그림을 잘라 배경층 맨 위에. 밝은 부분만 보이게(lighten). */
 .fg{position:absolute;inset:0;z-index:2;pointer-events:none;overflow:hidden}
-.dc{position:absolute;right:-40px;bottom:-84px;width:660px;height:330px;background:url("assets/datacenter-radar.jpg") center/cover no-repeat;opacity:.96;filter:brightness(1.08) saturate(1.05);
- -webkit-mask-image:radial-gradient(ellipse 88% 96% at 60% 100%,#000 56%,transparent 88%);mask-image:radial-gradient(ellipse 88% 96% at 60% 100%,#000 56%,transparent 88%)}
+.dc{position:absolute;right:-150px;bottom:-12px;width:560px;height:251px;background:url("assets/datacenter-radar.png") center bottom/contain no-repeat;filter:brightness(.66) saturate(.92) contrast(1.06);-webkit-mask-image:linear-gradient(0deg,transparent 0%,#000 14%);mask-image:linear-gradient(0deg,transparent 0%,#000 14%)}
+.dchaze{position:absolute;right:-60px;bottom:-120px;width:760px;height:420px;border-radius:50%;background:radial-gradient(closest-side,rgba(255,196,120,.14),rgba(163,120,255,.08) 55%,rgba(163,120,255,0))}
 /* 데이터센터 지붕에서 하늘로 솟는 디지털 정보(점선 기둥) — 10/22 서우 「하늘로 디지털 정보를 쏘는 듯한 효과」(참고 이미지: 지구에서 솟는 점 기둥). 금빛 → 라벤더로 옅어진다. */
-.streams{position:absolute;right:177px;bottom:210px;width:200px;height:330px;pointer-events:none;mix-blend-mode:screen;opacity:1;filter:drop-shadow(0 0 4px rgba(255,214,150,.5))}
+.streams{position:absolute;right:84px;bottom:219px;width:70px;height:280px;pointer-events:none;mix-blend-mode:screen;opacity:.9;filter:drop-shadow(0 0 3px rgba(255,214,150,.45))}
 .streams svg{width:100%;height:100%;display:block}
 .logo,h1,.sub{text-shadow:0 2px 22px rgba(13,11,38,.55)}
 .note,.foot{text-shadow:0 0 6px #0D0B26,0 0 14px #0D0B26}
@@ -106,8 +106,9 @@ XCSS = """
 VCSS = """
 html,body{width:1080px;height:1920px}
 body{padding:30px 44px 0;justify-content:flex-start}
-.dc{width:540px;height:270px;right:-60px;bottom:-70px}
-.streams{right:110px;bottom:170px;width:180px;height:320px;-webkit-mask-image:linear-gradient(180deg,#000 0%,#000 64%,rgba(0,0,0,.3) 69%,rgba(0,0,0,.3) 90%,#000 95%);mask-image:linear-gradient(180deg,#000 0%,#000 64%,rgba(0,0,0,.3) 69%,rgba(0,0,0,.3) 90%,#000 95%)}
+.dc{width:470px;height:210px;right:-106px;bottom:-70px}
+.dchaze{width:620px;height:360px;right:-90px;bottom:-130px}
+.streams{right:90px;bottom:122px;width:60px;height:80px}
 .bgfx .g1{width:900px;height:900px;left:-300px;top:-380px}
 .bgfx .g2{width:900px;height:900px;right:-320px;bottom:-360px}
 .bgfx .g3{width:700px;height:600px;left:-160px;top:30%}
@@ -193,29 +194,18 @@ def illus(name):
     return f'<div class="ill"><svg viewBox="0 0 120 120" aria-hidden="true">{ILLUS[name]}</svg></div>'
 
 
-def streams(w=460, h=760, seed=11, n_dots=34, n_lines=9):
-    """지붕에서 위로 솟는 점선 기둥 — 가운데가 촘촘하고 키가 크며, 몇 줄은 가는 실선. 같은 seed 면 같은 그림."""
+def streams(w=200, h=300, seed=11, n=9):
+    """레이더에서 하늘로 오르는 가랑비 같은 점선 몇 줄(10/22 서우 「폭포 말고 가랑비처럼 상징적으로」).
+    아래는 0에서 서서히 켜지고 위로 갈수록 사라진다. 같은 seed 면 같은 그림."""
     import random
     r = random.Random(seed)
     parts = [f'<defs><linearGradient id="up" gradientUnits="userSpaceOnUse" x1="0" y1="{h}" x2="0" y2="0">'
-             '<stop offset="0" stop-color="#FFE1A6" stop-opacity="0"/><stop offset=".12" stop-color="#FFE1A6" stop-opacity=".9"/>'
-             '<stop offset=".45" stop-color="#E9D7FF" stop-opacity=".5"/><stop offset=".8" stop-color="#CDB8FF" stop-opacity=".12"/><stop offset="1" stop-color="#CDB8FF" stop-opacity="0"/></linearGradient>'
-             f'<radialGradient id="base" cx=".5" cy="1" r=".5"><stop offset="0" stop-color="#FFD58F" stop-opacity=".55"/><stop offset="1" stop-color="#FFD58F" stop-opacity="0"/></radialGradient></defs>']
-    parts.append(f'<defs><linearGradient id="col" gradientUnits="userSpaceOnUse" x1="0" y1="{h}" x2="0" y2="0"><stop offset="0" stop-color="#FFD58F" stop-opacity="0"/><stop offset=".1" stop-color="#FFD58F" stop-opacity=".3"/><stop offset=".55" stop-color="#E9D7FF" stop-opacity=".16"/><stop offset="1" stop-color="#CDB8FF" stop-opacity="0"/></linearGradient>'
-                 f'<filter id="soft" x="-50%" y="-10%" width="200%" height="120%"><feGaussianBlur stdDeviation="{w*.06:.1f}"/></filter></defs>')
-    parts.append(f'<rect x="{w*.22:.0f}" y="0" width="{w*.56:.0f}" height="{h}" fill="url(#col)" filter="url(#soft)"/>')
-    parts.append(f'<ellipse cx="{w*.52:.0f}" cy="{h}" rx="{w*.42:.0f}" ry="70" fill="url(#base)"/>')
-    for i in range(n_dots):
-        x = w * (0.5 + (r.random() - 0.5) * (0.9 if i % 3 else 0.5))
-        centre = 1 - abs(x / w - 0.52) * 1.6
-        hh = h * max(0.18, min(0.98, centre * r.uniform(0.55, 1.0)))
-        sw = r.choice([1.8, 2.2, 2.6])
-        op = r.uniform(.45, 1)
-        parts.append(f'<line x1="{x:.1f}" y1="{h}" x2="{x:.1f}" y2="{h-hh:.0f}" stroke="url(#up)" stroke-width="{sw}" stroke-linecap="round" stroke-dasharray="0.1 {r.choice([6, 7, 9])}" opacity="{op:.2f}"/>')
-    for i in range(n_lines):
-        x = w * (0.5 + (r.random() - 0.5) * 0.85)
-        hh = h * r.uniform(0.35, 0.9)
-        parts.append(f'<line x1="{x:.1f}" y1="{h}" x2="{x:.1f}" y2="{h-hh:.0f}" stroke="url(#up)" stroke-width="1" opacity="{r.uniform(.25, .6):.2f}"/>')
+             '<stop offset="0" stop-color="#FFE1A6" stop-opacity="0"/><stop offset=".15" stop-color="#FFE1A6" stop-opacity=".85"/>'
+             '<stop offset=".5" stop-color="#E9D7FF" stop-opacity=".45"/><stop offset="1" stop-color="#CDB8FF" stop-opacity="0"/></linearGradient></defs>']
+    for i in range(n):
+        x = w * (0.5 + (i - (n - 1) / 2) / n * 0.8 + r.uniform(-0.03, 0.03))
+        hh = h * r.uniform(0.45, 0.95) * (1 - abs(i - (n - 1) / 2) / n * 0.8)
+        parts.append(f'<line x1="{x:.1f}" y1="{h}" x2="{x:.1f}" y2="{h-hh:.0f}" stroke="url(#up)" stroke-width="{r.choice([1.6, 2.0])}" stroke-linecap="round" stroke-dasharray="0.1 {r.choice([11, 13, 15])}" stroke-dashoffset="{r.randint(0, 12)}" opacity="{r.uniform(.45, .8):.2f}"/>')
     return f'<div class="streams"><svg viewBox="0 0 {w} {h}" preserveAspectRatio="none" aria-hidden="true">{"".join(parts)}</svg></div>'
 
 CHEV = '<div class="chev"><svg viewBox="0 0 24 24" aria-hidden="true"><path d="M0 12h21M16 7l5 5-5 5"/></svg></div>'
@@ -235,7 +225,7 @@ def page(lang, vertical=False):
     bn, bd = t["band"]
     css = A.CSS + XCSS + (VCSS if vertical else "")
     return f"""<!doctype html><html lang="{t['lang']}"><head><meta charset="utf-8"><title>wellbian — {t['h1']}</title><style>{css}</style></head><body>
-<div class="bgfx"><div class="paint"></div><div class="paintfade"></div><div class="g1"></div><div class="g2"></div><div class="g3"></div><div class="g4"></div><div class="grid"></div>{streams(200, 330, 11, 30, 7) if not vertical else streams(180, 320, 11, 28, 6)}</div>
+<div class="bgfx"><div class="paint"></div><div class="paintfade"></div><div class="g1"></div><div class="g2"></div><div class="g3"></div><div class="g4"></div><div class="grid"></div><div class="dchaze"></div></div>
 <div class="wrap">
 <div class="logo">{A.LOGO}</div>
 <div class="kicker">{t['kicker']}</div>
@@ -251,7 +241,7 @@ def page(lang, vertical=False):
 <p class="note">{t['note']}</p>
 <p class="foot">{A.nw(t['foot'])}</p>
 </div>
-<div class="fg"><div class="dc"></div></div></body></html>"""
+<div class="fg">{streams(70, 280, 11, 6) if not vertical else streams(60, 80, 11, 5)}<div class="dc"></div></div></body></html>"""
 
 if __name__ == "__main__":
     env = dict(os.environ)

diff --git a/depin/content/ai-factory-1021/README.md b/depin/content/ai-factory-1021/README.md
@@ -32,6 +32,8 @@
 
 - **10/22 14차(서우 「절반으로 줄이고 앞으로 빼 — 레이어층이 느껴지게」)**: 건물을 3배의 절반(가로 660×330 · 세로 540×270)으로 줄여 **앞층(`.fg`, z-index 2)** 으로 — 레이더가 아래 띠 오른쪽 끝 앞에 겹친다(글씨 없는 자리). 빛 기둥은 **뒤층**에 남겨 유리 타일 너머 흐린 금빛으로. 앞(건물) · 가운데(유리 타일 · 띠) · 뒤(빛 기둥 · 하늘) 세 층. 세로판은 레이더가 띠 아래 · 각주 오른쪽에 온전히 보이고, 띠 글자 높이만 기둥을 옅게.
 
+- **10/22 15차(서우 「건물 사진이 배경에 안 녹고 붙여 놓은 느낌 · 데이터는 폭포 말고 가랑비처럼 상징적으로 · 건물(레이더 포함) 형태 살려」)**: 네모난 그림 대신 **오려낸 건물**(`assets/datacenter-radar.png` — Higgsfield 로 같은 건물을 단색 배경에 다시 그려 배경 제거, 2크레딧 + 배경 제거. 처음 그림에 바로 배경 제거를 걸었더니 어두운 몸체까지 지워져 버림) · 몸체는 밤 장면에 맞게 어둡게 · 금빛 테두리는 살림 · 바닥은 서서히 사라지게 + 뒤에 은은한 금빛 번짐(`.dchaze`). 데이터는 넓은 빛 기둥 · 촘촘한 점선을 걷어내고 **점선 몇 줄**(가로 6 · 세로 5, 간격 넓게)만 앞층에서 — 가로판은 레이더 위 출력 타일의 빈 오른쪽 유리 위로, 세로판은 띠 아래에서 사라지게 짧게. 옛 `datacenter-radar.jpg` 삭제.
+
 ## 백서 대조 (Company whitepaper v1.0 초안 2026-09-28 · wellbianai.io, 10/21 열람)
 
 | 원글 · 그림 | 백서 · 사이트 | 3편에서 |

diff --git a/depin/reports/work-log.md b/depin/reports/work-log.md
@@ -2528,3 +2528,4 @@ Thanks Odelia — writing to you at that address today. Mine is support@wellbian
 - **연재 Part 3 12차(10/22, 서우 「데이터 기둥 줄이고 · 건물 위에 원반형 레이더」)** — Higgsfield 편집으로 지붕 위 레이더 접시(4크레딧) · 빛 기둥은 접시 위에서 짧고 좁게 · 세로판 각주 왼쪽 정렬 · 날짜 중간 줄바꿈 수정. `content/ai-factory-1021/`.
 - **연재 Part 3 13차(10/22, 서우 「데이터 위로 페이드아웃 · 아래 끊김 · 건물 3배」)** — 기둥 아래는 서서히 켜지고 위로 사라짐 + 흐린 금빛 빛 기둥 · 건물 3배(레이더 · 빛 기둥은 유리 타일 뒤에서 흐리게 비침) · 띠 유리 흐림. `content/ai-factory-1021/`.
 - **연재 Part 3 14차(10/22, 서우 「절반으로 · 앞으로 빼서 레이어층」)** — 건물 1.5배(3배의 절반) · 앞층으로 올려 띠 오른쪽 끝 앞에 레이더 · 빛 기둥은 뒤층(유리 너머) · 세로판 띠 글자 높이 기둥 옅게. `content/ai-factory-1021/`.
+- **연재 Part 3 15차(10/22, 서우 「건물이 붙여 놓은 느낌 · 데이터는 가랑비처럼 · 레이더 형태 살려」)** — 건물을 단색 배경에 다시 그려 오려낸 PNG(Higgsfield 2크레딧 + 배경 제거)로 교체 · 몸체 어둡게 · 금빛 번짐 · 데이터는 점선 몇 줄만 빈 자리 위로. `content/ai-factory-1021/`.
